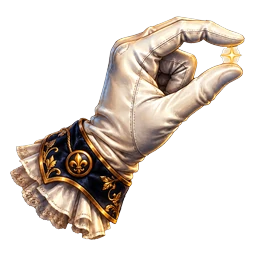
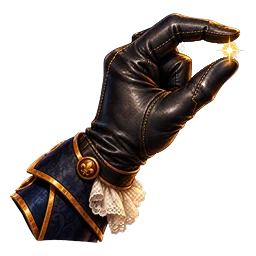
Guante negro de Sir Edwards en el resultado «casi perfecto» (v190)
Claude-Session: https://claude.ai/code/session_01D8YuskAoU39u1VrYjoDDvg

diff --git a/index.html b/index.html
@@ -47,13 +47,13 @@
 <link rel="preconnect" href="https://fonts.googleapis.com">
 <link rel="preconnect" href="https://fonts.gstatic.com" crossorigin>
 <link href="https://fonts.googleapis.com/css2?family=Playfair+Display:wght@600;700;800&family=Inter:wght@400;500;600;700;800;900&display=swap" rel="stylesheet">
-<link rel="stylesheet" href="styles/main.css?v=189">
+<link rel="stylesheet" href="styles/main.css?v=190">
 <!-- v1.4: estilos de la capa online (cuenta, migración, ranking). Solo clases .seq-* -->
-<link rel="stylesheet" href="styles/online.css?v=189">
-<link rel="stylesheet" href="styles/encargos.css?v=189">
-<link rel="stylesheet" href="styles/encargos-intro.css?v=189">
-<link rel="stylesheet" href="styles/sir-events.css?v=189">
-<link rel="stylesheet" href="styles/theme.css?v=189">
+<link rel="stylesheet" href="styles/online.css?v=190">
+<link rel="stylesheet" href="styles/encargos.css?v=190">
+<link rel="stylesheet" href="styles/encargos-intro.css?v=190">
+<link rel="stylesheet" href="styles/sir-events.css?v=190">
+<link rel="stylesheet" href="styles/theme.css?v=190">
 
 </head>
 <body class="on-home">
@@ -1104,53 +1104,53 @@ try {
 <!-- Fase 2: datos y constantes extraidos a modulos, cargados como scripts
      clasicos (no ES Modules) para conservar el scope global compartido con
      el script principal, sin convertir todavia la app a ES Modules. -->
-<script src="src/data/ui-maps.js?v=189"></script>
-<script src="src/data/questions.js?v=189"></script>
-<script src="src/data/questions-retired.js?v=189"></script>
-<script src="src/data/phrases.js?v=189"></script>
-<script src="src/data/duel-phrases.js?v=189"></script>
-<script src="src/data/lucidez.js?v=189"></script>
-<script src="src/data/medals.js?v=189"></script>
+<script src="src/data/ui-maps.js?v=190"></script>
+<script src="src/data/questions.js?v=190"></script>
+<script src="src/data/questions-retired.js?v=190"></script>
+<script src="src/data/phrases.js?v=190"></script>
+<script src="src/data/duel-phrases.js?v=190"></script>
+<script src="src/data/lucidez.js?v=190"></script>
+<script src="src/data/medals.js?v=190"></script>
 <!-- Prompt 3 — Fase C: sistema de avatares compartido (window.SEQAvatars). Debe
      cargarse antes de src/online/online.js y src/online/duels.js: ambos lo
      consumen en vez de mantener cada uno su propia copia de la lista. -->
-<script src="src/data/avatars.js?v=189"></script>
-<script src="src/share/share-card.js?v=189"></script>
+<script src="src/data/avatars.js?v=190"></script>
+<script src="src/share/share-card.js?v=190"></script>
 
 <!-- Fase 3 (Lote 3A): motor de coincidencia de respuestas extraido a
      src/utils/matching.js, mismo criterio que la Fase 2 (script clasico,
      sin ES Modules todavia). -->
-<script src="src/utils/matching.js?v=189"></script>
-<script src="src/utils/answer-alias.js?v=189"></script>
-<script src="src/utils/lucidez-select.js?v=189"></script>
-<script src="src/state/lucidez-bag.js?v=189"></script>
-<script src="src/utils/encargos-core.js?v=189"></script>
-<script src="src/utils/encargos-progress.js?v=189"></script>
-<script src="src/state/encargos.js?v=189"></script>
-<script src="src/data/encargos-phrases.js?v=189"></script>
-<script src="src/ui/encargos-ui.js?v=189"></script>
-<script src="src/data/named-phrases.js?v=189"></script>
-<script src="src/utils/named-phrases.js?v=189"></script>
-<script src="src/utils/encargos-intro-core.js?v=189"></script>
-<script src="src/data/encargos-intro-phrases.js?v=189"></script>
-<script src="src/ui/encargos-intro.js?v=189"></script>
-<script src="src/data/home-quotes.js?v=189"></script>
-<script src="src/ui/home-quote.js?v=189"></script>
-<script src="src/utils/sir-events.js?v=189"></script>
-<script src="src/ui/sir-events-ui.js?v=189"></script>
-<script src="src/state/sir-events.js?v=189"></script>
-<script src="src/utils/sudden-progression.js?v=189"></script>
-<script src="src/utils/fresh-first.js?v=189"></script>
-<script src="src/utils/mental-calc.js?v=189"></script>
-<script src="src/utils/mental-classic.js?v=189"></script>
-<script src="src/ui/mental-classic-ui.js?v=189"></script>
+<script src="src/utils/matching.js?v=190"></script>
+<script src="src/utils/answer-alias.js?v=190"></script>
+<script src="src/utils/lucidez-select.js?v=190"></script>
+<script src="src/state/lucidez-bag.js?v=190"></script>
+<script src="src/utils/encargos-core.js?v=190"></script>
+<script src="src/utils/encargos-progress.js?v=190"></script>
+<script src="src/state/encargos.js?v=190"></script>
+<script src="src/data/encargos-phrases.js?v=190"></script>
+<script src="src/ui/encargos-ui.js?v=190"></script>
+<script src="src/data/named-phrases.js?v=190"></script>
+<script src="src/utils/named-phrases.js?v=190"></script>
+<script src="src/utils/encargos-intro-core.js?v=190"></script>
+<script src="src/data/encargos-intro-phrases.js?v=190"></script>
+<script src="src/ui/encargos-intro.js?v=190"></script>
+<script src="src/data/home-quotes.js?v=190"></script>
+<script src="src/ui/home-quote.js?v=190"></script>
+<script src="src/utils/sir-events.js?v=190"></script>
+<script src="src/ui/sir-events-ui.js?v=190"></script>
+<script src="src/state/sir-events.js?v=190"></script>
+<script src="src/utils/sudden-progression.js?v=190"></script>
+<script src="src/utils/fresh-first.js?v=190"></script>
+<script src="src/utils/mental-calc.js?v=190"></script>
+<script src="src/utils/mental-classic.js?v=190"></script>
+<script src="src/ui/mental-classic-ui.js?v=190"></script>
 
 <!-- Fase 3 (Lote 3B): nucleo algoritmico de Duelo extraido a
      src/utils/duel.js, mismo criterio que el resto (script clasico, sin
      ES Modules todavia). Las dependencias compartidas con otros modos
      (arrangeStandardBlock, generateLucidezMentalOp)
      permanecen en este script principal, sin moverse en este lote. -->
-<script src="src/utils/duel.js?v=189"></script>
+<script src="src/utils/duel.js?v=190"></script>
 
 <!-- Fase 3 (Lote 3C): defaults, migracion y saneamiento del Store
      extraidos a src/utils/store.js, mismo criterio que el resto (script
@@ -1162,50 +1162,50 @@ try {
      getLevelData) y las 8 funciones de persistencia real (loadStore,
      saveStore, exportProgress...) permanecen en este script principal,
      sin moverse en este lote. -->
-<script src="src/utils/store.js?v=189"></script>
+<script src="src/utils/store.js?v=190"></script>
 
 <!-- Fase 4B: fachada de estado de solo lectura (getStore/getCurrentGame),
      mismo criterio que el resto (script clasico, sin ES Modules todavia).
      No copia, no transforma, no cachea. Ver src/state/read-facade.js. -->
-<script src="src/state/read-facade.js?v=189"></script>
+<script src="src/state/read-facade.js?v=190"></script>
 
-<script src="src/utils/streak-xp.js?v=189"></script>
+<script src="src/utils/streak-xp.js?v=190"></script>
 <!-- Fase 4C: helpers minimos de escritura (pushCapped, resetStreak) para
      eliminar 2 duplicaciones reales concretas -- no un sistema de
      mutaciones. Ver src/state/write-helpers.js y CHANGELOG_FASE4C.md. -->
-<script src="src/state/write-helpers.js?v=189"></script>
+<script src="src/state/write-helpers.js?v=190"></script>
 
 <!-- v1.4: capa online (cuenta Google, sincronización, migración, ranking).
      config.js es PÚBLICO (URL del Worker + Client ID de Google); si está
      vacío, la capa online queda desactivada y la app es idéntica a la v1.3.
      online.js solo usa el store/funciones del juego en tiempo de ejecución. -->
-<script src="src/ui/install-app.js?v=189"></script>
-<script src="src/ui/a11y.js?v=189"></script>
-<script src="src/ui/back-nav.js?v=189"></script>
-<script src="src/ui/game-fx.js?v=189"></script>
-<script src="src/ui/last-life.js?v=189"></script>
-<script src="src/ui/hitos.js?v=189"></script>
-<script src="src/ui/achievements.js?v=189"></script>
-<script src="src/ui/stats-extra.js?v=189"></script>
-<script src="src/ui/name-prompt.js?v=189"></script>
-<script src="src/ui/intro.js?v=189"></script>
-<script src="src/ui/mode-badges.js?v=189"></script>
-<script src="src/ui/lucidez-ui.js?v=189"></script>
-<script src="src/ui/sabias.js?v=189"></script>
-<script src="src/ui/icons.js?v=189"></script>
-<script src="src/online/config.js?v=189"></script>
+<script src="src/ui/install-app.js?v=190"></script>
+<script src="src/ui/a11y.js?v=190"></script>
+<script src="src/ui/back-nav.js?v=190"></script>
+<script src="src/ui/game-fx.js?v=190"></script>
+<script src="src/ui/last-life.js?v=190"></script>
+<script src="src/ui/hitos.js?v=190"></script>
+<script src="src/ui/achievements.js?v=190"></script>
+<script src="src/ui/stats-extra.js?v=190"></script>
+<script src="src/ui/name-prompt.js?v=190"></script>
+<script src="src/ui/intro.js?v=190"></script>
+<script src="src/ui/mode-badges.js?v=190"></script>
+<script src="src/ui/lucidez-ui.js?v=190"></script>
+<script src="src/ui/sabias.js?v=190"></script>
+<script src="src/ui/icons.js?v=190"></script>
+<script src="src/online/config.js?v=190"></script>
 <!-- v2.0: combinación de datos de jugador (mismo código que el servidor) y su sincronización -->
-<script src="src/utils/sync-merge.js?v=189"></script>
-<script src="src/online/data-sync.js?v=189"></script>
-<script src="src/online/online.js?v=189"></script>
+<script src="src/utils/sync-merge.js?v=190"></script>
+<script src="src/online/data-sync.js?v=190"></script>
+<script src="src/online/online.js?v=190"></script>
 <!-- v1.5: Amigos, Duelo online y Retos. El servidor decide preguntas, tiempo, aciertos y ganador. -->
-<script src="src/online/duels.js?v=189"></script>
+<script src="src/online/duels.js?v=190"></script>
 <!-- 2.1: Duelo por apuestas, ELO PvP, Rankings y estadísticas de Duelos (solo presentación; decide el servidor) -->
-<script src="src/online/duels-v21.js?v=189"></script>
-<script src="src/online/inbox.js?v=189"></script>
-<script src="src/online/push.js?v=189"></script>
+<script src="src/online/duels-v21.js?v=190"></script>
+<script src="src/online/inbox.js?v=190"></script>
+<script src="src/online/push.js?v=190"></script>
 <!-- Audio: sonidos del juego (src/audio/audio.js) -->
-<script src="src/audio/audio.js?v=189"></script>
+<script src="src/audio/audio.js?v=190"></script>
 
 <script>
 function closeWelcomeModal() {

diff --git a/sw.js b/sw.js
@@ -38,7 +38,7 @@
 // styles/main.css, src/data/medals.js, src/utils/store.js y src/online/duels.js (ya en el shell).
 // 2.0 (Prompt 5, tarjeta de compartir): subido de 10 a 11; nuevo src/share/share-card.js
 // (añadido al shell) y cambiaron index.html y src/online/duels.js.
-const CACHE_VERSION = 189;
+const CACHE_VERSION = 190;
 // Dos cachés (ver install/fetch más abajo):
 //  · CACHE_NAME  (versionada): index.html, CSS, JS, manifest e iconos. Es poco y es imprescindible: si no se puede guardar, la
 //    versión nueva no se instala y se queda la anterior.
@@ -567,7 +567,7 @@ const ASSET_REVS = {
   './assets/ui/calculadora-laton.webp': '7912ca3d',
   './assets/ui/caracol.webp': '59071199',
   './assets/ui/cartel-peligro.webp': '97d54d81',
-  './assets/ui/casi.webp': 'eb33c177',
+  './assets/ui/casi.webp': '946a7878',
   './assets/ui/celebracion.webp': '87e6433a',
   './assets/ui/cerebro-engranajes.webp': 'b446d97a',
   './assets/ui/cerebro.webp': '416f0417',
